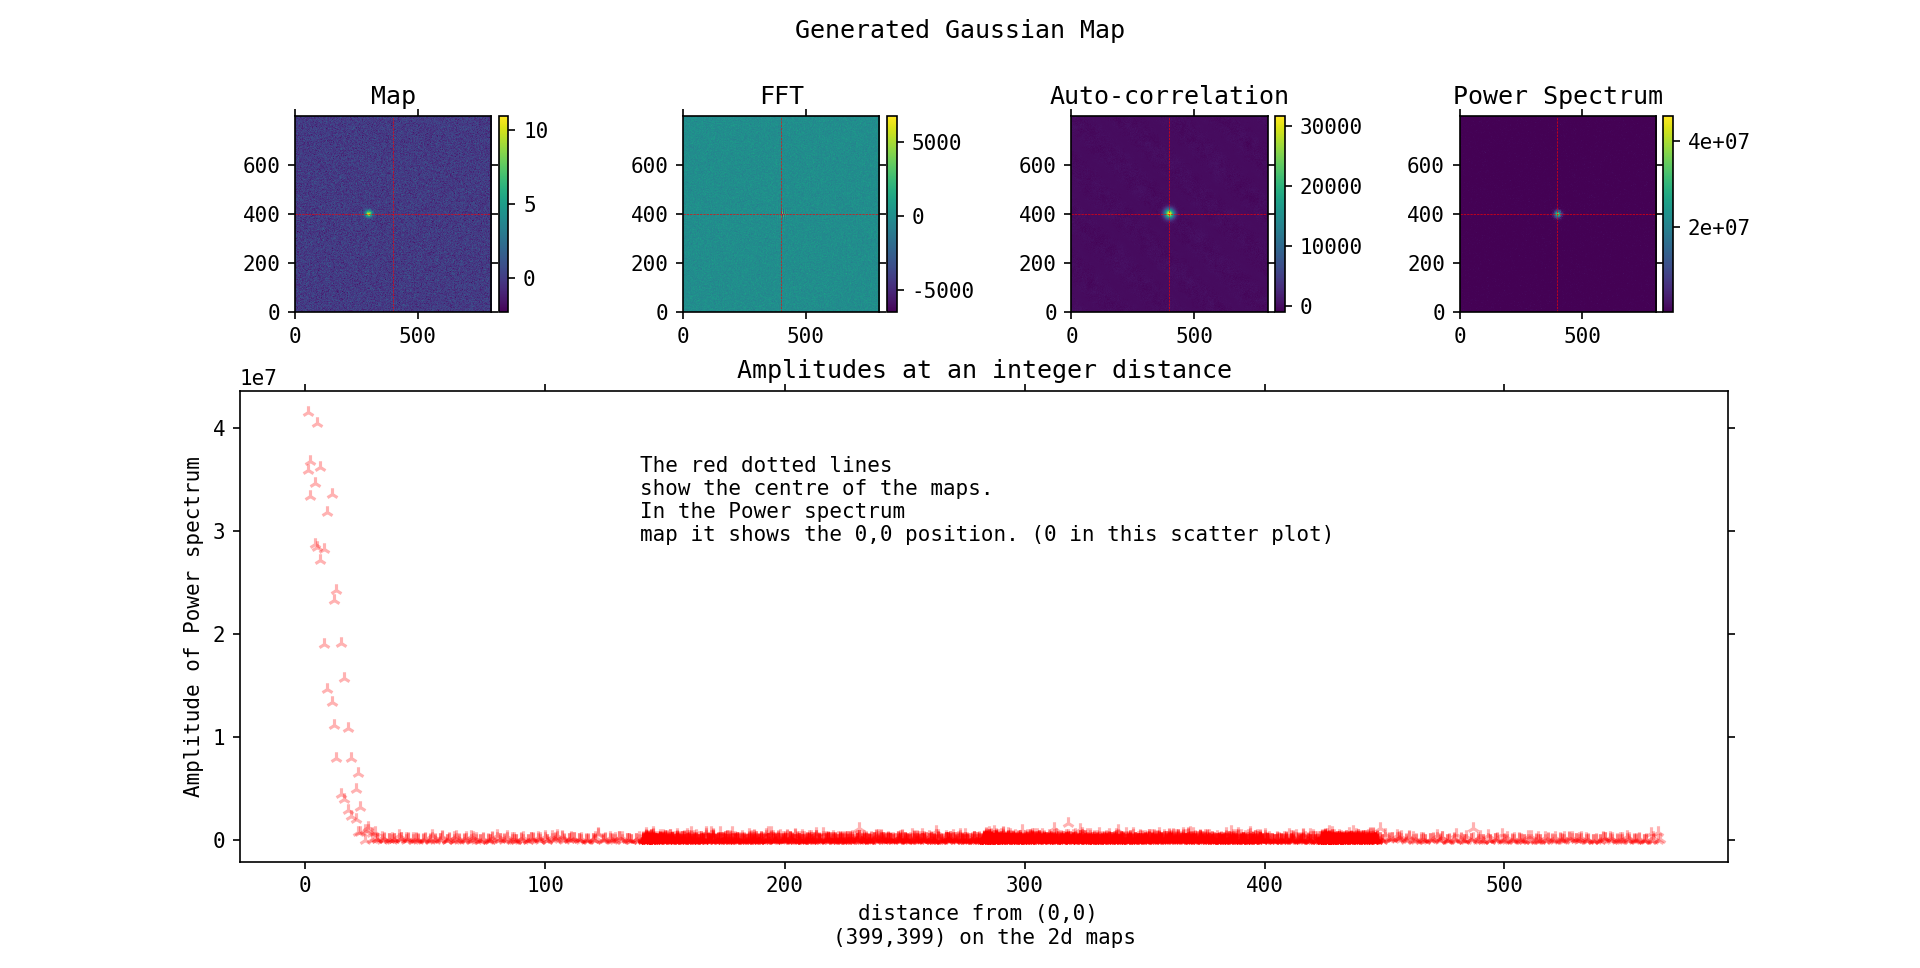
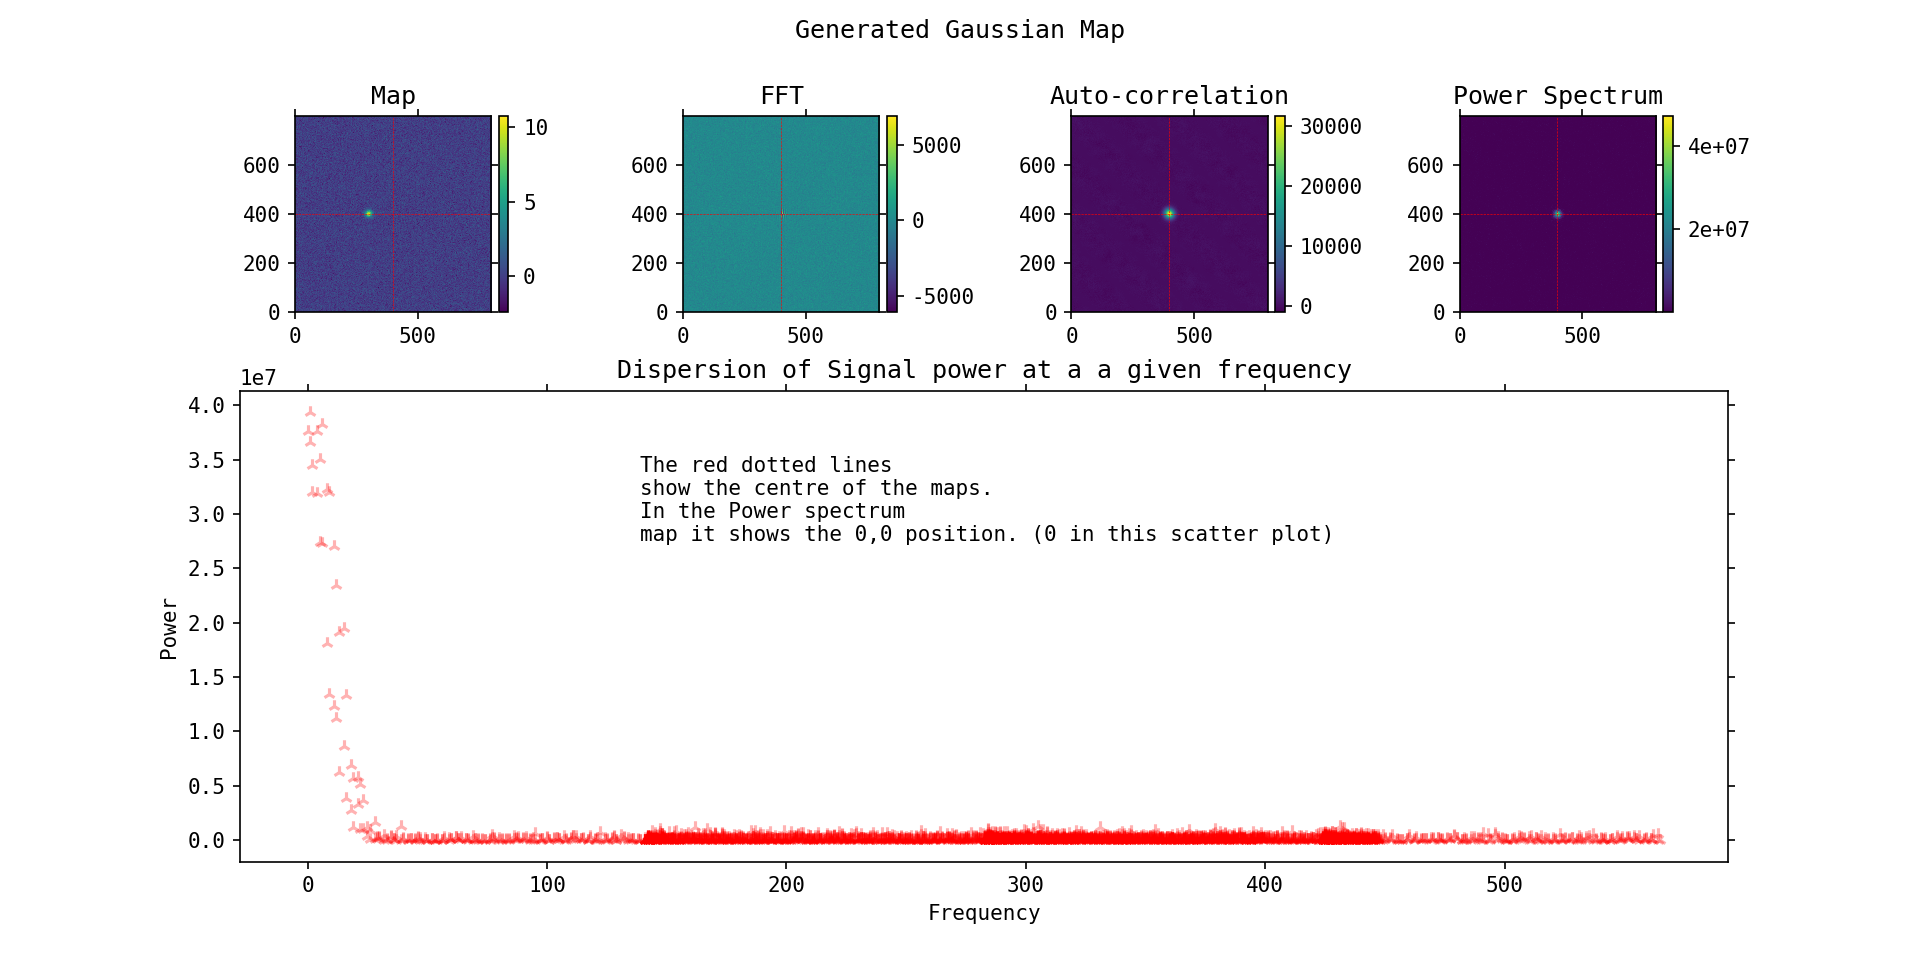
Updated imgs; better axis labels

diff --git a/annuliPlot.py b/annuliPlot.py
@@ -31,7 +31,12 @@ noi = G2D.max() * NoiPer * np.random.normal(size=G2D.shape)
 
 G2D += noi
 
-FFT_G2D = fft2(G2D)
+# When the input a is a time-domain signal and A = fft(a),
+# np.abs(A) is its amplitude spectrum and
+# np.abs(A)**2 is its power spectrum.
+# The phase spectrum is obtained by np.angle(A).
+
+FFT_G2D = fft2(G2D)  # amplitude spectrum when np.abs(FFT_G2D) is used
 FFT_G2D = np.roll(FFT_G2D, (FFT_G2D.shape[0] // 2) - 1, axis=(0, 1))
 
 MidMapX = FFT_G2D.shape[1] // 2 - 1
@@ -44,16 +49,16 @@ PSD_rolled = np.roll(PSD, PSD.shape[0]//2-1, axis=(0, 1))
 AC = ifft2(PSD)
 AC_rolled = np.roll(AC.real, AC.shape[0]//2-1, axis=(0, 1))
 AC_rolled[MidMapY, MidMapX] = 0
+
 # Binning
 loc = list(permutations(np.arange(0, G2D.shape[0]), 2))
-radius, pows = [], []
+radius, pows = [0], [PSD_rolled[PSD_rolled.shape[0]//2-1, PSD_rolled.shape[1]//2-1]]
 
 for idx in loc:
     r = int(((idx[0] - MidMapX) ** 2 + (idx[1] - MidMapY) ** 2) ** (1 / 2) + 0.5)
     Pow = PSD_rolled[idx[0], idx[1]].real
     radius.append(r)
     pows.append(Pow)
-
 
 fig1 = plt.figure(figsize=(20, 20))
 grid = plt.GridSpec(3, 4, hspace=0.4, wspace=0.2)
@@ -87,7 +92,7 @@ colourbar(im2)
 acIM.set_title('Auto-correlation')
 acIM.hlines(y=AC_rolled.shape[0]//2-1, xmin=0, xmax=AC_rolled.shape[1], color='r', linestyles='--', linewidths=0.3)
 acIM.vlines(x=AC_rolled.shape[1]//2-1, ymin=0, ymax=AC_rolled.shape[0], color='r', linestyles='--', linewidths=0.3)
-im3 = acIM.imshow(AC_rolled, origin='lower')
+im3 = acIM.imshow(AC_rolled.real, origin='lower')
 colourbar(im3)
 
 psdIM.set_title('Power Spectrum')
@@ -96,10 +101,9 @@ psdIM.vlines(x=PSD_rolled.shape[1]//2-1, ymin=0, ymax=PSD_rolled.shape[0], color
 im4 = psdIM.imshow(PSD_rolled.real, origin='lower')
 colourbar(im4)
 # row 3
-AvgScatter.set_title('Amplitudes at an integer distance')
-AvgScatter.set_xlabel('distance from (0,0) \n'
-                      '(399,399) on the 2d maps')
-AvgScatter.set_ylabel('Amplitude of Power spectrum')
+AvgScatter.set_title('Dispersion of Signal power at a a given frequency')
+AvgScatter.set_xlabel('Frequency')
+AvgScatter.set_ylabel('Power')
 im5 = AvgScatter.scatter(radius[::200], pows[::200], marker='2', alpha=0.3, color='red')
 
 fig1.suptitle('Generated Gaussian Map')
